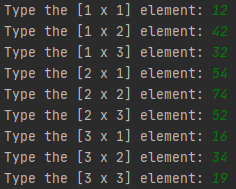
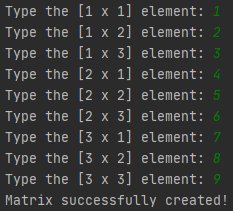
Added code.
Added a multiplication, and determinante function. Also, changed the input pic, as well as added some new pics.

diff --git a/matrix_calculator.py b/matrix_calculator.py
@@ -1,0 +1,56 @@
+def matrix():
+    """
+    A matrix 3x3 former, it receive 9 inputs, and return a callable list in input order.
+    (element 11, element 12, element 13, element  21....)
+    :return: a callable list with 9 integer numbers
+    """
+    matrix = [[], [], []]
+    for line in range(0, 3):
+        for column in range(0, 3):
+            while True:
+                locale = str(input(f'Type the [{line + 1} x {column + 1}] element: '))
+                if locale.strip() == '' or locale.isalpha():
+                    print('Invalid integer number, try again.')
+                else:
+                    matrix[line].append(int(locale))
+                    break
+    print('Matrix successfully created!')
+    return matrix
+
+
+def printmatrix(matrix):
+    """
+    Just a better looking print for a matrix in 3x3 style. Requires a 9 elements list.
+    :param matrix: a list with 9 integer numbers.
+    """
+    for line in range(0, 3):
+        if line != 0:
+            print()
+        for column in range(0, 3):
+            print(f'[ {str(matrix[line][column]).center(5)} ]', end='')
+
+
+def matrixmultip(matrix_a, matrix_b):
+    """
+    A function that multiplies two matrices, and return a callable list with the result.
+    :param matrix_a: First matrix to be added at the multiplication;
+    :param matrix_b: Second matrix to be added at the multiplication;
+    :return: A callable list containing 9 elements (3x3 matrix).
+    """
+    result = [[0, 0, 0], [0, 0, 0], [0, 0, 0]]
+    for i in range(0, 3):
+        for j in range(0, 3):
+            for k in range(0, 3):
+                result[i][j] += matrix_a[i][k] * matrix_b[k][j]
+    return result
+
+
+def determinant(matrix):
+    """
+    Prints the determinant of a matrix right ahead.
+    :param matrix: The matrix to be used.
+    """
+    positive = (matrix[0][0] * matrix[1][1] * matrix[2][2]) + (matrix[0][1] * matrix[1][2] * matrix[2][0]) + (matrix[0][2] * matrix[1][0] * matrix[2][1])
+    negative = (matrix[2][0] * matrix[1][1] * matrix[0][2]) + (matrix[2][1] * matrix[1][2] * matrix[0][0]) + (matrix[2][2] * matrix[1][0] * matrix[0][1])
+    result = positive - negative
+    print(f'The determinant is: {result}')
